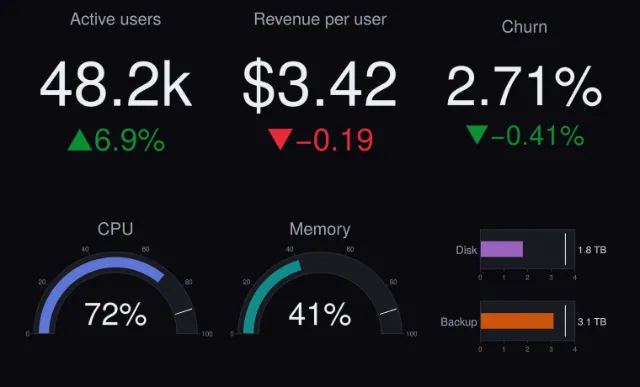
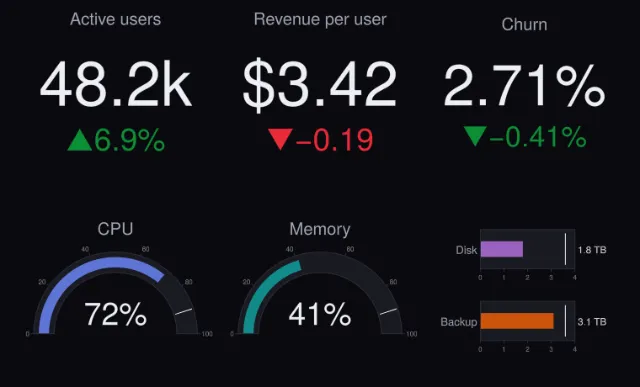
fix(indicator): drop kept number scales when fonts change
Until the default font face loads, text is measured with a fallback
font; the chart re-runs layout when it arrives. The indicator keeps the
smallest number scale per layout key (Plotly's _cachenumbersScale), so
a scale measured with the fallback survived that re-layout: numbers in
indicator/dashboard came out smaller on macOS (Helvetica fallback) than
on Linux CI. Clear the cache on font changes; regenerate the dashboard
baseline (CI already drew the corrected sizes).

Changed region(s): [[0.6875, 0.155, 0.9688, 0.2791], [0.7188, 0.3101, 0.9375, 0.4031], [0.7812, 0.031, 0.8438, 0.093]]

diff --git a/packages/traces-finance/src/indicator/transition.test.ts b/packages/traces-finance/src/indicator/transition.test.ts
@@ -5,7 +5,14 @@
  * counts up (formatted each frame), the delta follows, the gauge bar sweeps on the same
  * primitives, and the last frame is exactly the new figure.
  */
-import type { FrameScheduler, TextData } from '@mk7s/holochart-render';
+import {
+  createFallbackTextMeasurer,
+  createFontMetricsOracle,
+  registerFont,
+  setDefaultFontMetricsOracle,
+  type FrameScheduler,
+  type TextData,
+} from '@mk7s/holochart-render';
 import {
   createChart,
   createChartRegistry,
@@ -18,6 +25,8 @@ import { indicator } from './index.ts';
 
 /** Texts of every text-primitive update, in order. */
 const drawn: string[][] = [];
+/** Font sizes of every text-primitive update, in order. */
+const sizes: number[][] = [];
 
 // The text engine (troika) needs WebGL: record the labels with a stand-in primitive instead.
 vi.mock('@mk7s/holochart-render', async (importOriginal) => {
@@ -28,7 +37,10 @@ vi.mock('@mk7s/holochart-render', async (importOriginal) => {
       const primitive = {
         object: new Object3D(),
         update(patch: Partial<TextData>) {
-          if (patch.labels) drawn.push(patch.labels.map((l) => l.text));
+          if (patch.labels) {
+            drawn.push(patch.labels.map((l) => l.text));
+            sizes.push(patch.labels.map((l) => l.font?.size ?? 0));
+          }
         },
         setTransform() {},
         setViewport() {},
@@ -110,6 +122,7 @@ beforeEach(() => {
     renderRoot: { scheduler, createRenderer: fakeRenderer },
   };
   drawn.length = 0;
+  sizes.length = 0;
 });
 
 afterEach(() => {
@@ -218,5 +231,50 @@ describe('indicator transitions', () => {
     await chart.react(figure(380, 0));
     expect(shown()[0]).toBe('380');
     expect(drawn.length).toBe(before + 1);
+  });
+});
+
+describe('indicator fonts', () => {
+  afterEach(() => setDefaultFontMetricsOracle(null));
+
+  /** An oracle measuring `k` times as wide as the deterministic fallback table. */
+  const oracle = (k: number) => {
+    const table = createFallbackTextMeasurer();
+    return createFontMetricsOracle({
+      resolveFace: null,
+      measurer: {
+        kind: `fallback×${k}`,
+        width: (text, face) => k * table.width(text, face),
+        vertical: (face) => table.vertical(face),
+      },
+    });
+  };
+  const number = { data: [{ type: 'indicator', mode: 'number', value: 123456789 }] };
+
+  it('drops the kept number scale when a font finishes loading', async () => {
+    // Before the web font loads, text is measured with a wider fallback: the number shrinks to fit.
+    setDefaultFontMetricsOracle(oracle(4));
+    chart = createChart(container, number, options);
+    await chart.ready;
+    const fallback = sizes.at(-1)![0]!;
+
+    // The font arrives (any font change notifies), measurements get narrower: the chart re-runs
+    // layout and the number grows to the size a fresh layout gives, instead of keeping the
+    // smaller scale measured with the fallback.
+    setDefaultFontMetricsOracle(oracle(1));
+    const unregister = registerFont({ family: 'Test Face', url: 'data:,' }, { cssFontFace: false });
+    try {
+      await steps(3);
+      await chart.ready;
+      const loaded = sizes.at(-1)![0]!;
+      expect(loaded).toBeGreaterThan(fallback);
+
+      chart.destroy();
+      chart = createChart(container, number, options);
+      await chart.ready;
+      expect(sizes.at(-1)![0]).toBeCloseTo(loaded, 6);
+    } finally {
+      unregister();
+    }
   });
 });

diff --git a/packages/traces-finance/src/indicator/plot.ts b/packages/traces-finance/src/indicator/plot.ts
@@ -16,6 +16,7 @@ import {
   createArcPrimitive,
   createRectPrimitive,
   createTextPrimitive,
+  subscribeFontChanges,
   type ArcData,
   type ArcPrimitive,
   type Primitive,
@@ -125,9 +126,19 @@ class IndicatorView implements TraceView<IndicatorCalc> {
   #text: TextPrimitive | undefined;
   /** Plotly's kept number scale and offsets (see `layout.ts`). */
   readonly #cache: IndicatorLayoutCache = new Map();
+  /**
+   * Until a web font (e.g. the default TeX Gyre Heros face) has loaded, text is measured with a
+   * fallback font; the chart re-runs layout when it arrives. Kept scales measured before then must
+   * go, or the smallest one (a wider fallback, e.g. on Linux) sticks.
+   */
+  readonly #unsubscribeFonts = subscribeFontChanges(() => this.#cache.clear());
 
   constructor(ctx: TracePlotContext<IndicatorCalc>) {
     this.#sync(ctx);
+  }
+
+  dispose(): void {
+    this.#unsubscribeFonts();
   }
 
   update(ctx: TracePlotContext<IndicatorCalc>): void {
